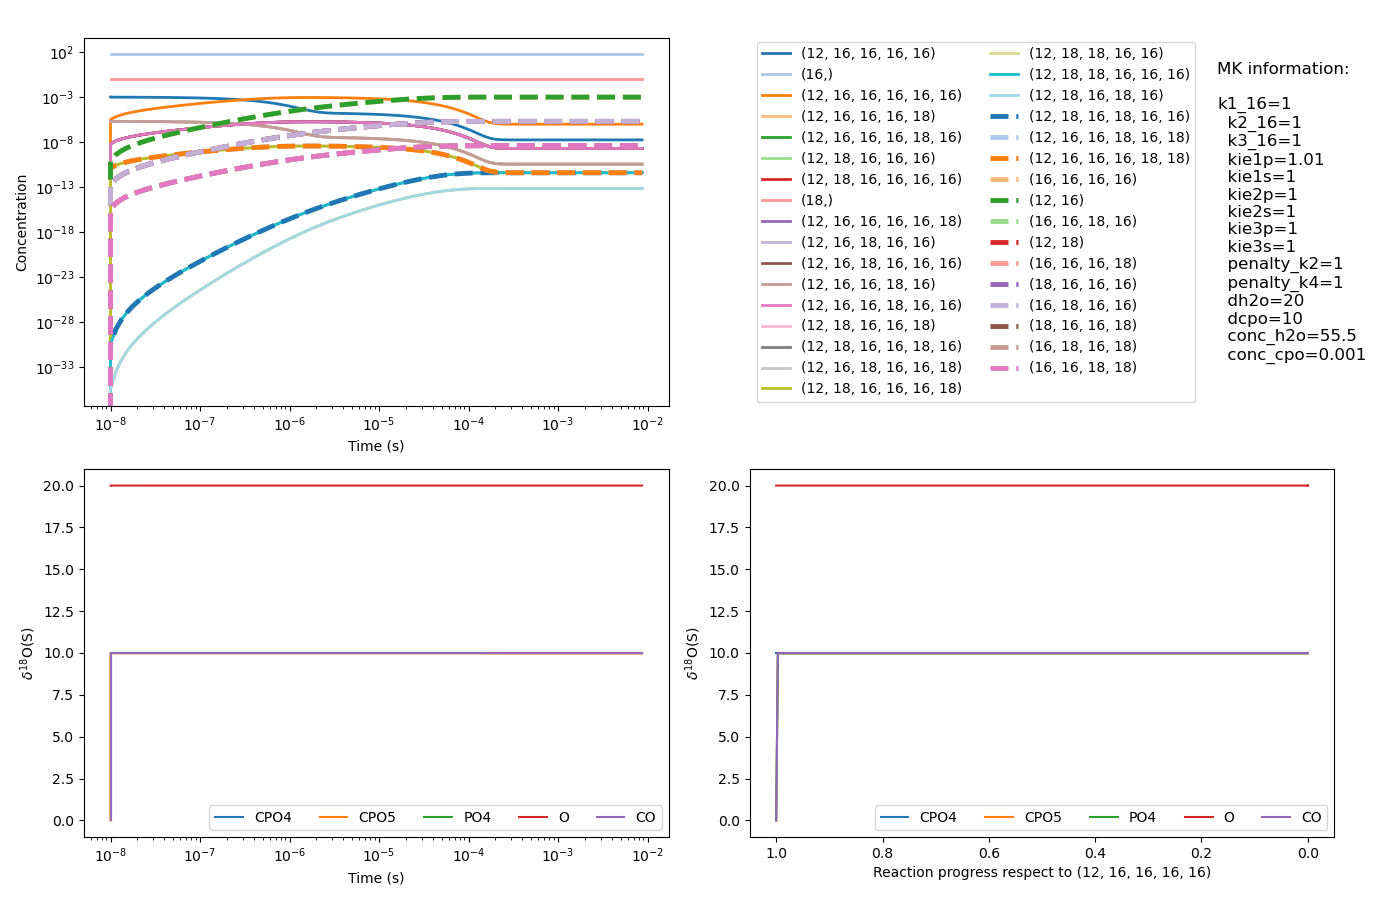
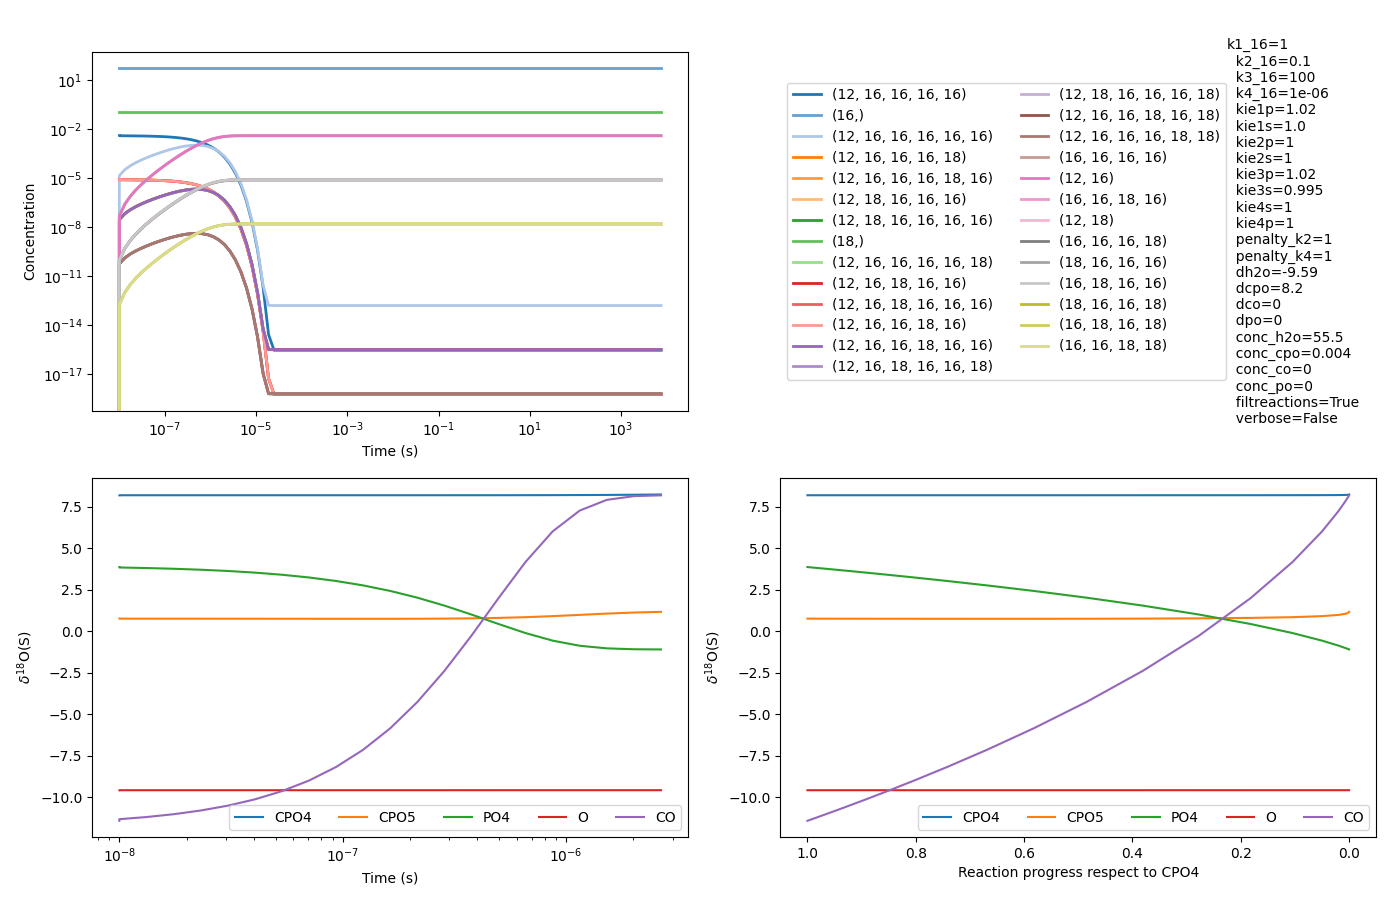
added urls in readme

diff --git a/README.md b/README.md
@@ -1,6 +1,6 @@
 # Toy Model for Oxygen Isotope Fractionation
 
-> **A simplified kinetic model (i.e. toy model) for phosphoryl-transfer reactions of the different oxygen isotopologues and isotopomers of the four species.**
+> *A simplified kinetic model (i.e. toy model) for phosphoryl-transfer reactions of the different oxygen isotopologues and isotopomers of the four species.*
 
 ## Description
 
@@ -8,11 +8,11 @@ The toy model code was developed to evaluate the oxygen isotope fractionation in
 accessible chemical species, namely 2-naphthyl phosphate, water, 2-naphthol and phosphate.
 Figure below shows the general form of the reaction studied, the data objects used to model the five 
 species, and the reaction constants for each direction.
-The user can introduce the isotopic effect as primary and secondary in the `config.yaml` file.
+The user can introduce the isotopic effect as primary and secondary in the `config.yaml` file (more details
+can be found in the [online documentation](https://about.readthedocs.com/))
 See full article in [Bernet et al. 2026](https://chemrxiv.org/).
 
 ![Example Image](./docs/toymodel_representation.png)
-*(output example)*
 
 ## Installation
 
@@ -32,6 +32,7 @@ python3 -m pip install -e .  # dependencies already defined in setup.py
 
 ```bash
 # Introduce input parameters
+cd toymodel
 vi config.yaml  # or the text editor of your choice
 
 # Run kinetic simulation
@@ -41,7 +42,6 @@ python3 -m toymodel
 Running the toymodel will produce by default a four panel plot:
 
 ![Example Image](./docs/example.png)
-*(output example)*
 
 ## Support
 
